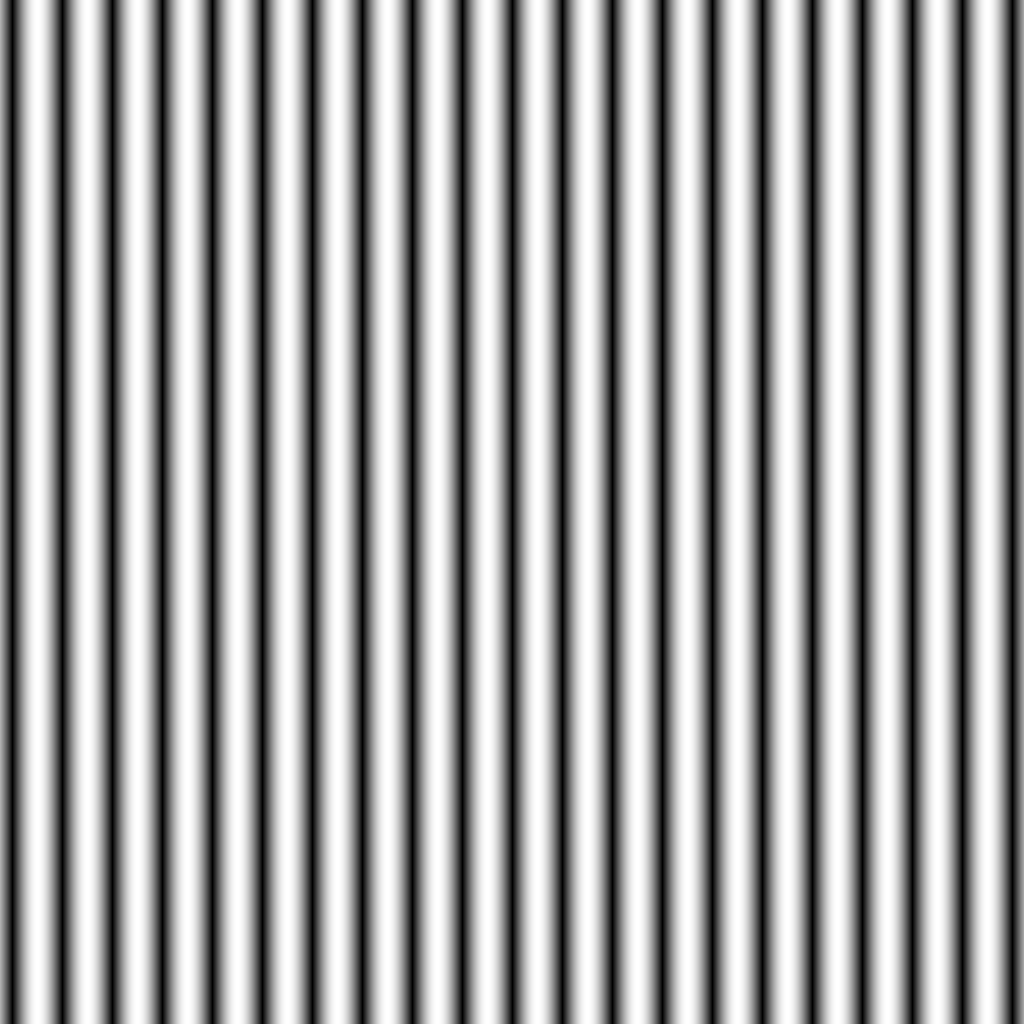
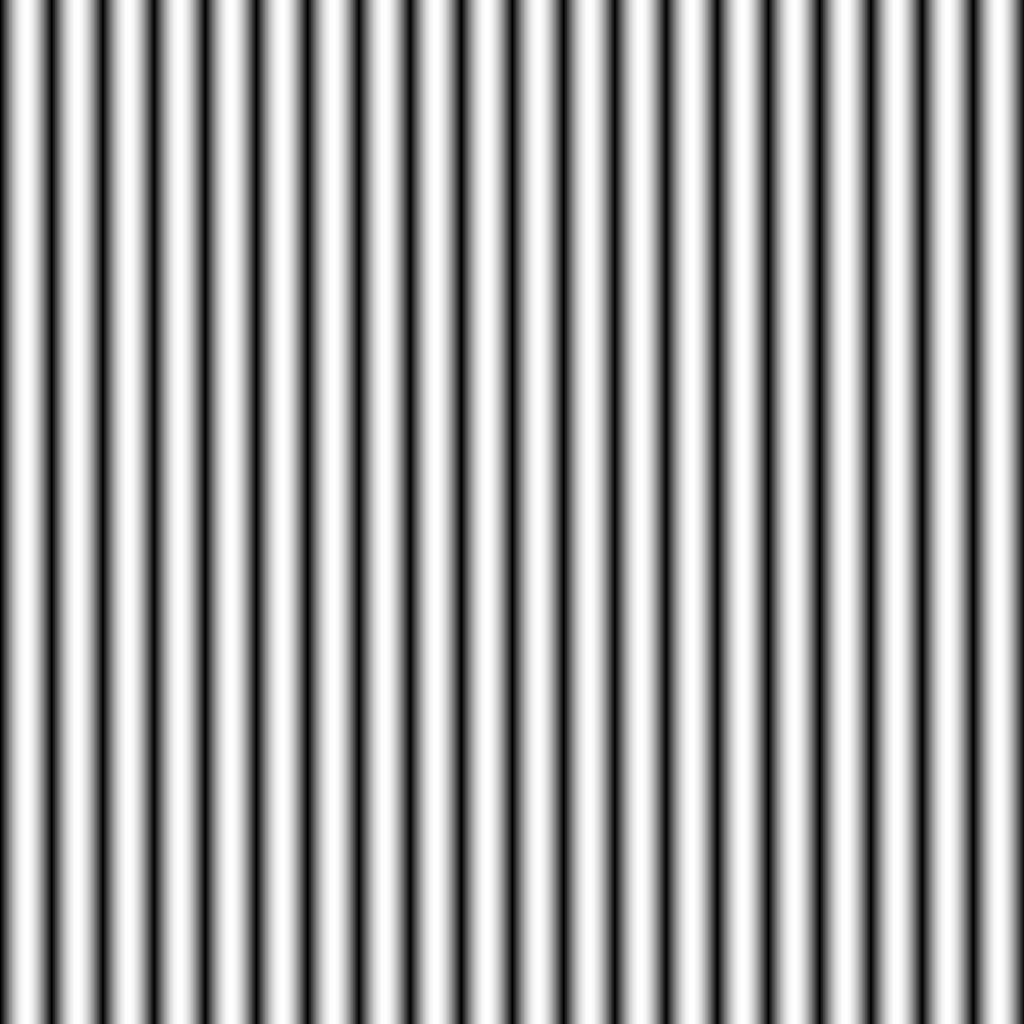
add some changes

diff --git a/Task_3_FFT/fft.py b/Task_3_FFT/fft.py
@@ -41,7 +41,6 @@ def inverse_fft(fft_signal : np.ndarray):
     signal = [np.conjugate(val) / len(fft_signal) for val in signal]
     return np.array(signal)
 
-"""
 def padding_2d(signal : np.ndarray):
     '''
     Scales 2D array for dimensions 
@@ -62,21 +61,6 @@ def fft_2d(signal : np.ndarray):
     fft_xaxis = fft(template)
     fft_yaxis = fft(np.transpose(fft_xaxis))
     return np.transpose(fft_yaxis), n_x, n_y
-"""
-
-def pad2(x):
-   m, n = np.shape(x)
-   M, N = 2 ** int(ceil(log(m, 2))), 2 ** int(ceil(log(n, 2)))
-   F = np.zeros((M,N), dtype = x.dtype)
-   F[0:m, 0:n] = x
-   return F, m, n
-
-def fft_2d(f):
-   '''FFT of 2-d signals/images with padding
-   usage X, m, n = fft2(x), where m and n are dimensions of original signal'''
-
-   f, m, n = pad2(f)
-   return np.transpose(fft(np.transpose(fft(f)))), m, n
 
 def inverse_fft_2d(fft_signal : np.ndarray, n_x : int, n_y : int):
     """
@@ -91,15 +75,15 @@ def fft_shift(fft_signal : np.ndarray):
    Shifts the centre of FFT of 2D signals
    """
    n_fft_x, n_fft_y = fft_signal.shape
-   R1, R2 = fft_signal[0 : n_fft_x // 2, 0 : n_fft_y // 2], \
+   x1, x2 = fft_signal[0 : n_fft_x // 2, 0 : n_fft_y // 2], \
             fft_signal[n_fft_x // 2 : n_fft_x, 0 : n_fft_y // 2]
-   R3, R4 = fft_signal[0 : n_fft_x // 2, n_fft_y // 2 : n_fft_y], \
+   x3, x4 = fft_signal[0 : n_fft_x // 2, n_fft_y // 2 : n_fft_y], \
             fft_signal[n_fft_x // 2 : n_fft_x, n_fft_y // 2 : n_fft_y]
    shifted_fft = np.zeros(shape = fft_signal.shape, dtype = fft_signal.dtype)
    shifted_fft[n_fft_x // 2 : n_fft_x, n_fft_y // 2 : n_fft_y], \
-    shifted_fft[0 : n_fft_x // 2, 0 : n_fft_y // 2] = R1, R4
+    shifted_fft[0 : n_fft_x // 2, 0 : n_fft_y // 2] = x1, x4
    shifted_fft[n_fft_x // 2 : n_fft_x, 0 : n_fft_y // 2], \
-    shifted_fft[0 : n_fft_x // 2, n_fft_y // 2 : n_fft_y] = R3, R2
+    shifted_fft[0 : n_fft_x // 2, n_fft_y // 2 : n_fft_y] = x3, x2
    
    return shifted_fft
 

diff --git a/Task_3_FFT/test.py b/Task_3_FFT/test.py
@@ -29,13 +29,12 @@ fft_signal2, n_x, n_y = fft.fft_2d(signal)
 
 for i in range(len(fft_signal1)):
     for j in range(len(fft_signal1[i])):
-        print(abs(fft_signal1[i][j]))
+        assert abs(fft_signal1[i][j] - fft_signal2[i][j]) < eps, 'Test 3 - Failed'
 print('Tets 3 - OK!')
 
 #Visualize 2D fast fourier transform
 path_data = 'data/'
-images_names = ['grating-1.png'] 
-['grating-2.png', 'grating-3.png', 'grating-4.png', 'stinkbug.png']
+images_names = ['grating-1.png', 'grating-2.png', 'grating-3.png', 'stinkbug.png']
 n_images = len(images_names)
 
 for i in range(len(images_names)):
@@ -44,7 +43,8 @@ for i in range(len(images_names)):
     image_signal = ic.convert_image_to_hex_array(image_filename=path_image)
     axes[0].imshow(image_signal, cmap='gray')
     fft_image_signal, m, n = fft.fft_2d(image_signal)
-    #fft_image_signal = fft.fft_shift(fft_image_signal)
-    print(fft_image_signal)
+    fft_image_signal = fft.fft_shift(fft_image_signal)
     axes[1].imshow(abs(fft_image_signal), cmap='gray')
+    axes[1].set_xlim([492, 532])
+    axes[1].set_ylim([532, 492])
     plt.savefig('fft-results/fft-results-' + images_names[i], dpi=300)

diff --git a/Task_3_FFT/grating.py b/Task_3_FFT/grating.py
@@ -21,13 +21,13 @@ x = np.arange(-512, 512, 1)
 x_mesh, y_mesh = np.meshgrid(x, x)
 
 #Grating - 1
-wavelength = 100
+wavelength = 102.4
 angle = 0
 grating_1 = np.sin(2 * np.pi * (x_mesh * np.cos(angle) + y_mesh * np.sin(angle)) / wavelength)
 save_image_without_borders(grating_1, 'data/grating-1.png')
 
 #Grating - 2
-wavelength = 100
+wavelength = 102.4
 angle = np.pi / 9
 grating_2 = np.sin(2 * np.pi * (x_mesh * np.cos(angle) + y_mesh * np.sin(angle)) / wavelength)
 save_image_without_borders(grating_2, 'data/grating-2.png')
@@ -37,6 +37,7 @@ grating_3 = grating_1 + grating_2
 save_image_without_borders(grating_3, 'data/grating-3.png')
 
 #Grating - 4
+"""
 amplitudes = [0.5, 0.25, 1, 0.75, 1]
 wavelengths = [200, 100, 250, 300, 60]
 angles = [0, np.pi / 4, np.pi / 9, np.pi / 2, np.pi / 12]
@@ -46,3 +47,4 @@ for amplitude, wavelength, angle in zip(amplitudes, wavelengths, angles):
     grating_4 += amplitude * np.sin(2 * np.pi * (x_mesh * np.cos(angle) + y_mesh * np.sin(angle)) / wavelength)
 
 save_image_without_borders(grating_4, 'data/grating-4.png')
+"""
